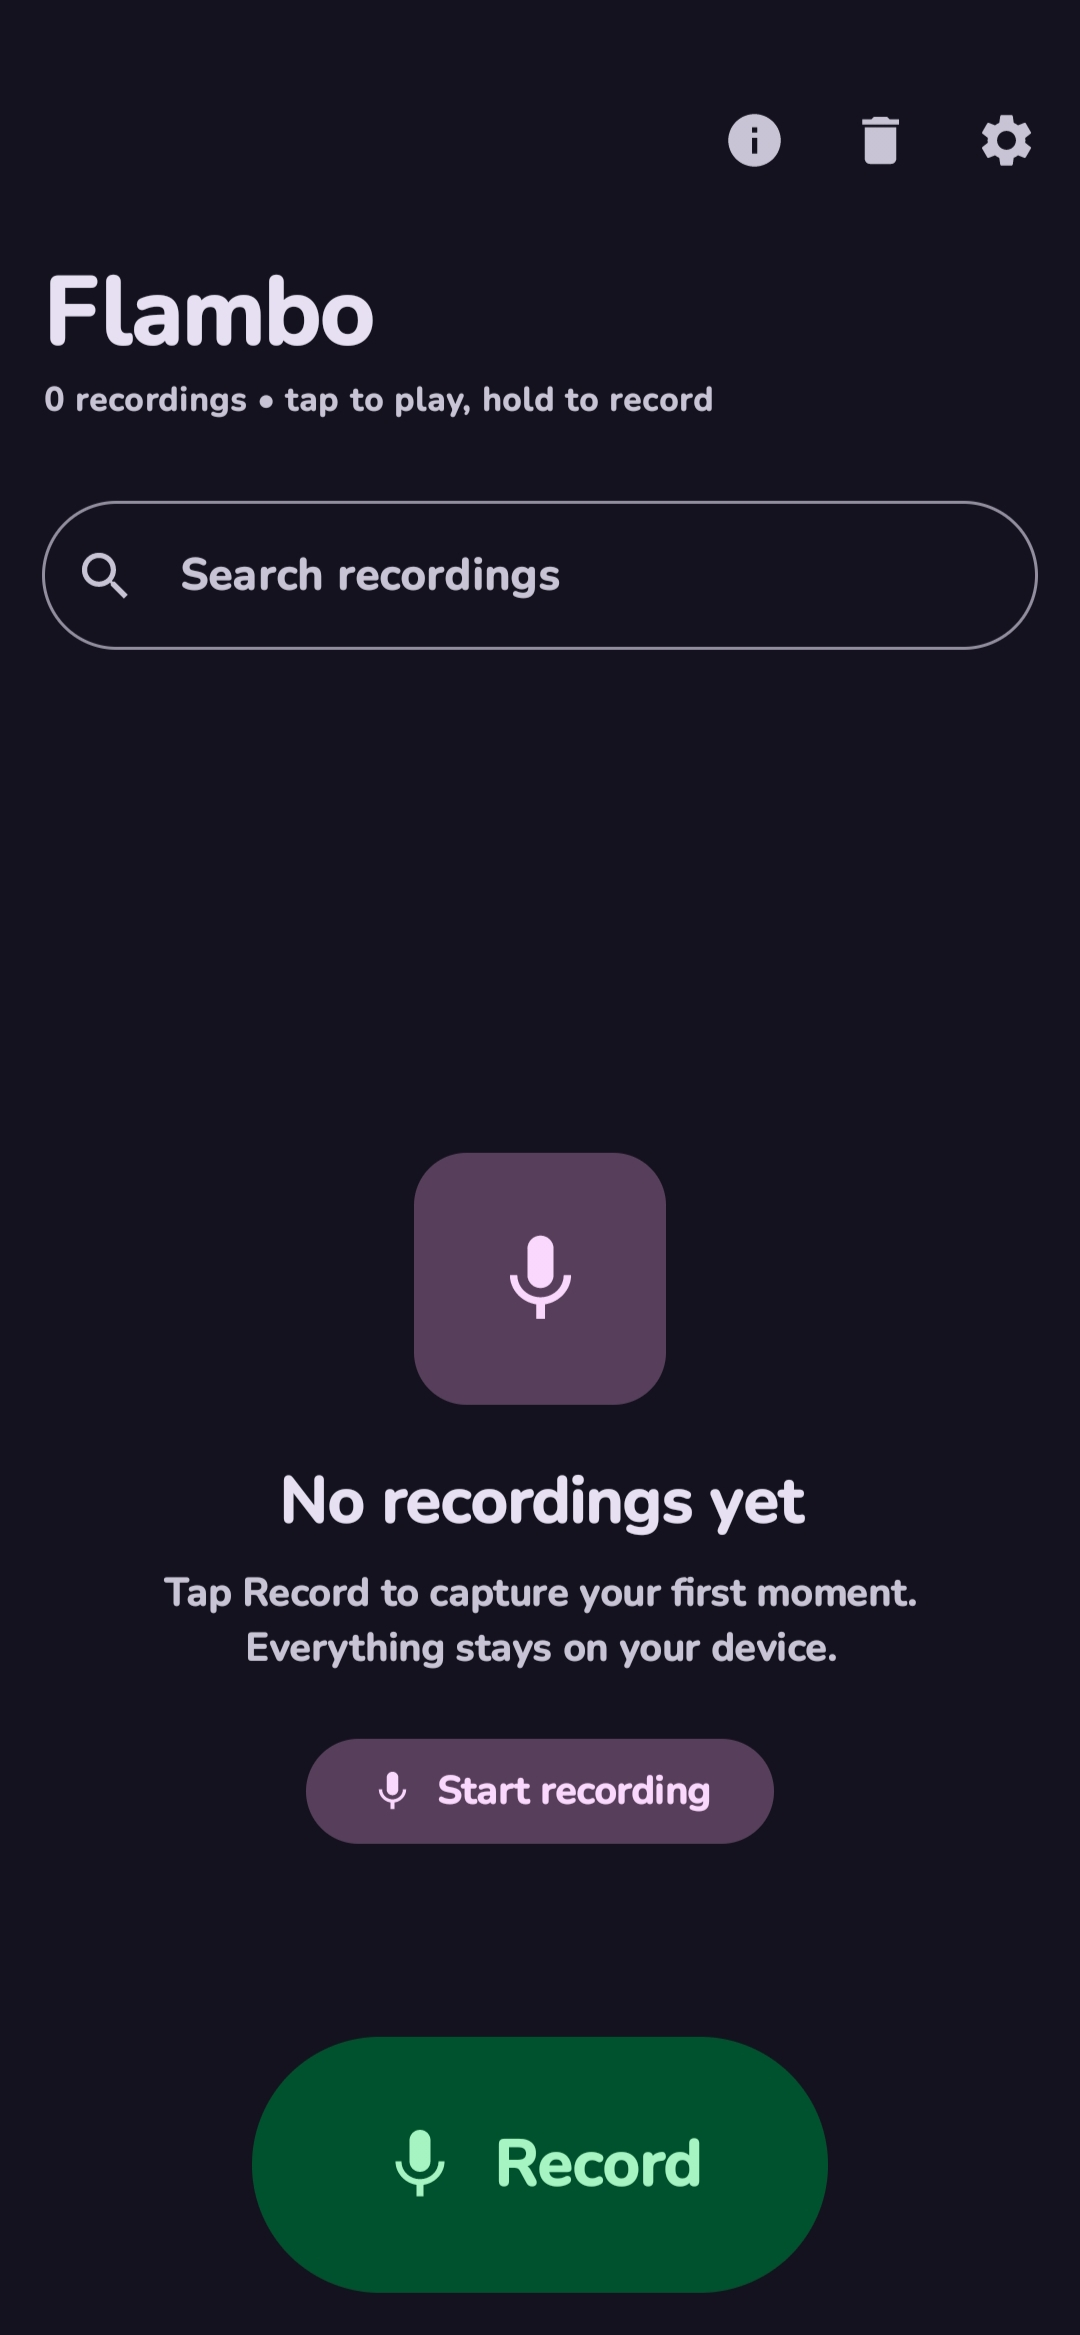
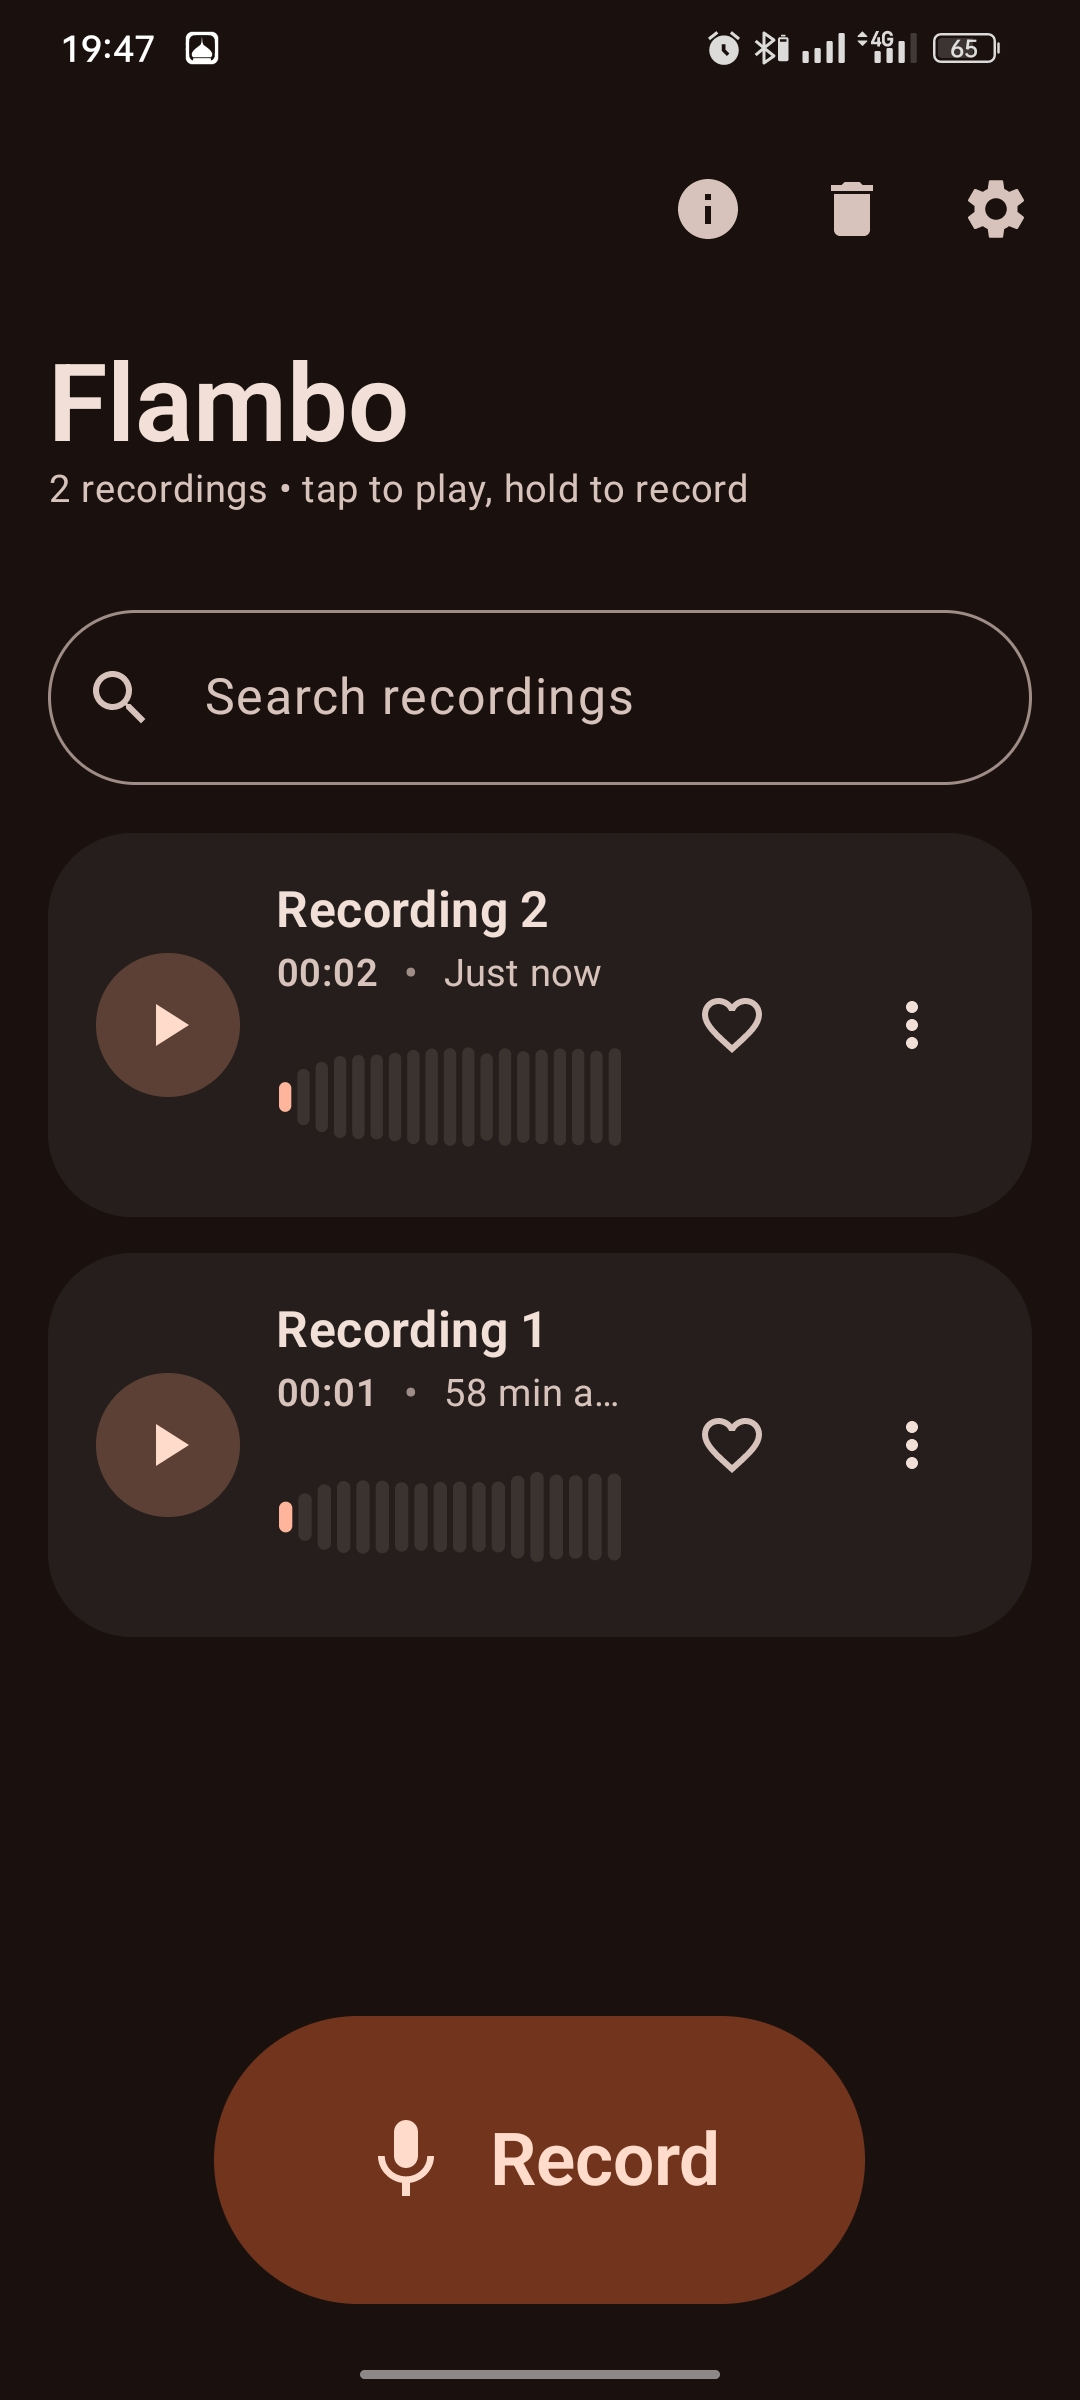
fix(about): use PackageManager for version (no BuildConfig) + docs: update README with new screenshots
- AboutSettingsScreen: resolve BuildConfig unresolved reference by using LocalContext.packageManager.getPackageInfo instead of BuildConfig; shows vName (vCode) and auto-follows app version
- README: expand Screenshots from 4 to 6 (Home/Recording/Playback + Settings/About/Trash) to include new about.jpg and trash.jpg, updated from latest captures
- screenshots: refresh home/playback/settings/about/trash captures

diff --git a/app/src/main/java/com/flambo/recorder/ui/settings/AboutSettingsScreen.kt b/app/src/main/java/com/flambo/recorder/ui/settings/AboutSettingsScreen.kt
@@ -65,11 +65,11 @@ import androidx.compose.ui.platform.LocalDensity
 import androidx.compose.ui.unit.dp
 import kotlin.math.max
 import androidx.compose.ui.layout.ContentScale
+import android.os.Build
 import androidx.compose.ui.platform.LocalContext
 import androidx.compose.ui.platform.LocalUriHandler
 import androidx.compose.ui.res.painterResource
 import androidx.compose.ui.unit.dp
-import com.flambo.recorder.BuildConfig
 import com.flambo.recorder.R
 import com.flambo.recorder.data.PreferencesManager
 import com.flambo.recorder.ui.settings.components.SectionHeader
@@ -260,7 +260,15 @@ fun AboutSettingsScreen(
                     Column(modifier = Modifier.weight(1f), verticalArrangement = Arrangement.spacedBy(6.dp)) {
                         Row(verticalAlignment = Alignment.CenterVertically, horizontalArrangement = Arrangement.spacedBy(8.dp)) {
                             Text("Flambo", style = MaterialTheme.typography.titleLarge, color = MaterialTheme.colorScheme.onSecondaryContainer)
-                            val versionLabel = remember { "v${BuildConfig.VERSION_NAME} (${BuildConfig.VERSION_CODE})" }
+                            val context = LocalContext.current
+                            val versionLabel = remember {
+                                try {
+                                    val pInfo = context.packageManager.getPackageInfo(context.packageName, 0)
+                                    val vName = pInfo.versionName ?: "1.4.0"
+                                    val vCode = if (Build.VERSION.SDK_INT >= Build.VERSION_CODES.P) pInfo.longVersionCode else pInfo.versionCode.toLong()
+                                    "v$vName ($vCode)"
+                                } catch (_: Exception) { "v1.4.0" }
+                            }
                             AssistChip(onClick = {}, label = { Text(versionLabel) })
                         }
                         Text("A calm, expressive voice recorder. Transcripts and recordings stay on your device.", style = MaterialTheme.typography.bodyMedium, color = MaterialTheme.colorScheme.onSecondaryContainer)

diff --git a/README.md b/README.md
@@ -34,9 +34,13 @@
 
 ## Screenshots
 
-| Home | Recording | Playback | Settings |
-|---|---|---|---|
-| ![Home](screenshots/home.jpg) | ![Recording](screenshots/recording.jpg) | ![Playback](screenshots/playback.jpg) | ![Settings](screenshots/settings.jpg) |
+| Home | Recording | Playback |
+|---|---|---|
+| ![Home](screenshots/home.jpg) | ![Recording](screenshots/recording.jpg) | ![Playback](screenshots/playback.jpg) |
+
+| Settings | About | Trash |
+|---|---|---|
+| ![Settings](screenshots/settings.jpg) | ![About](screenshots/about.jpg) | ![Trash](screenshots/trash.jpg) |
 
 ## Get the app
 
